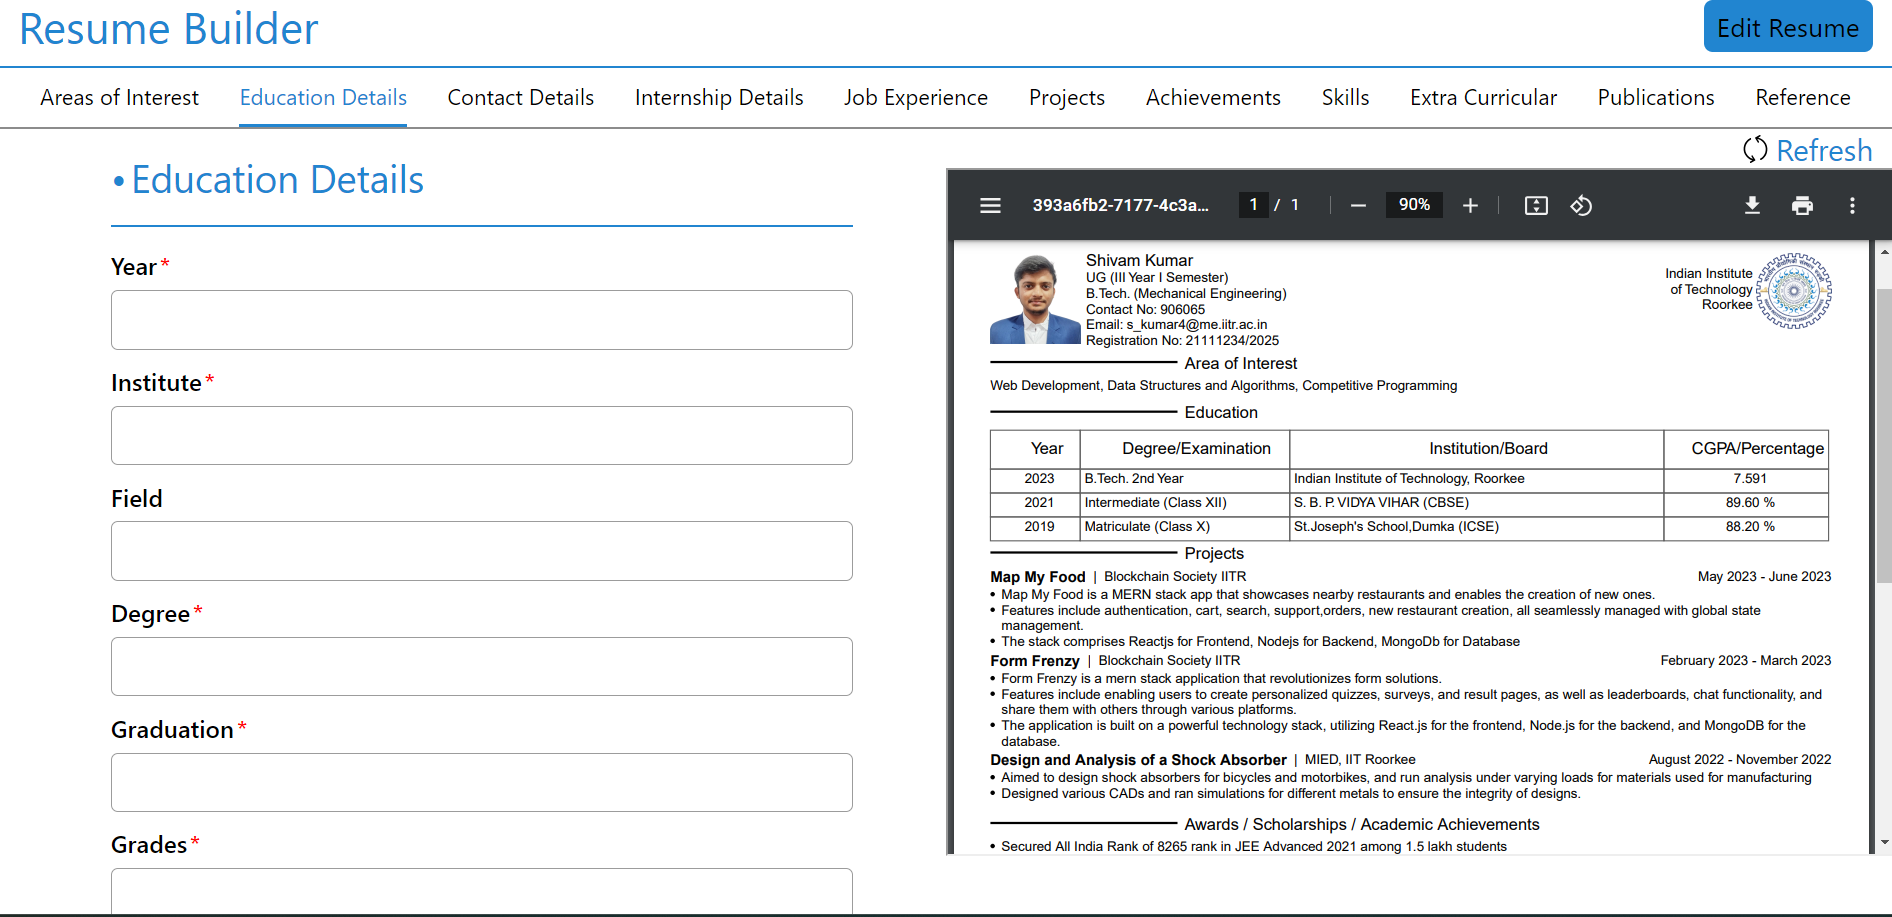
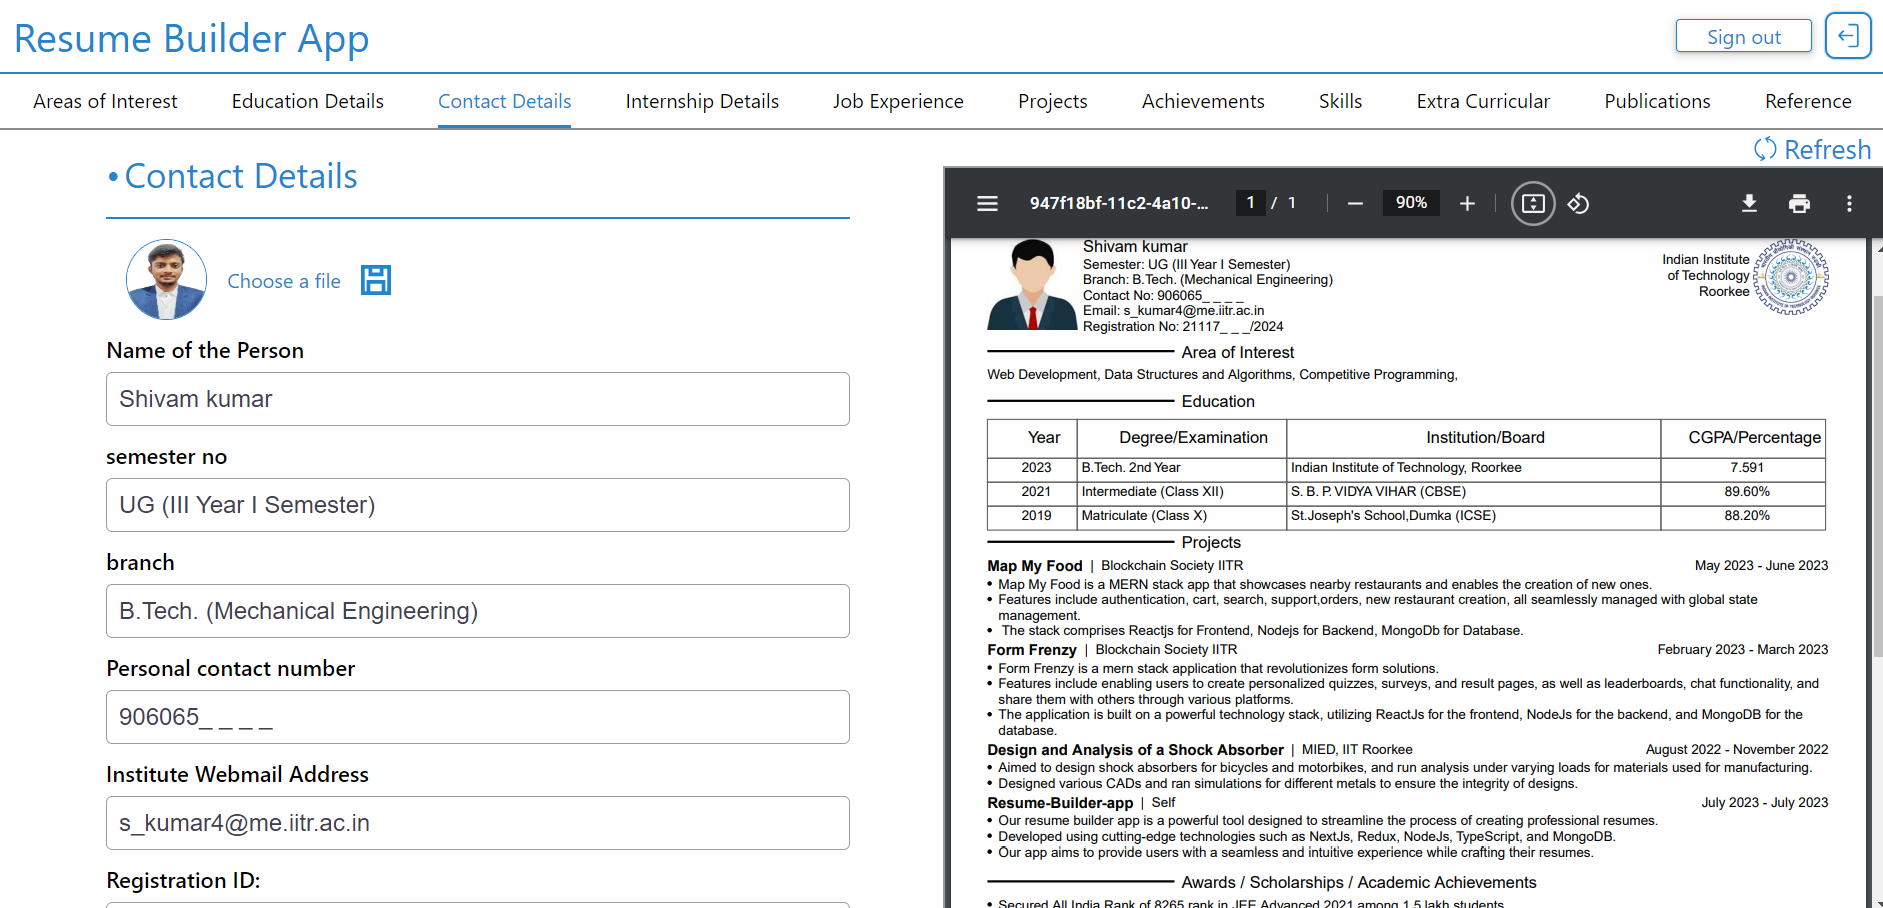
project description

diff --git a/Backend/src/controllers/Resume/Projects.js b/Backend/src/controllers/Resume/Projects.js
@@ -33,6 +33,19 @@ module.exports = Projects = (projects, pdfDoc) => {
           align: "right",
         }
       );
+
+    var sentences = project.description[0].split(".");
+    var filteredSentences = sentences.filter(
+      (sentence) => sentence.trim().length > 0
+    );
+    for (var i = 0; i < filteredSentences.length; i++) {
+      if (filteredSentences[i][0] === " ") {
+        filteredSentences[i] = filteredSentences[i].slice(1);
+      }
+      filteredSentences[i] += ".";
+    }
+    project.description = filteredSentences;
+
     pdfDoc.moveDown(0.2);
     pdfDoc
       .font("Helvetica")
